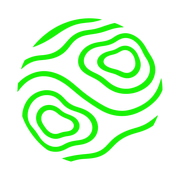
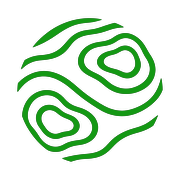
feat: novo logotipo em Barlow Condensed e verde da marca #14A514
- Logo.jsx: logotipo em texto (Barlow Condensed, caixa alta) com o X
  desenhado em SVG; substitui o PNG no cabecalho e no rodape
- token brand passa de #0CFC0D para #14A514, que da contraste tanto no
  branco (3,27:1) quanto no carbon (5,67:1)
- favicon, icon-512 e apple-touch-icon recoloridos para o novo verde
- brand-lab.html: pagina de estudo so para uso local, fora do build,
  comparando os verdes e as propostas de logotipo

Changed region(s): [[0.0833, 0.0833, 0.9167, 0.9167]]

diff --git a/brand-lab.html b/brand-lab.html
@@ -1,0 +1,285 @@
+<!doctype html>
+<html lang="pt-BR">
+<head>
+<meta charset="UTF-8" />
+<meta name="viewport" content="width=device-width, initial-scale=1.0" />
+<meta name="robots" content="noindex" />
+<title>Laboratório de marca — OffXpedition</title>
+<!--
+  Página de estudo, só para uso local (npm run dev / netlify dev).
+  Não é entrada do build do Vite, então não vai para o site publicado.
+-->
+<link rel="preconnect" href="https://fonts.googleapis.com" />
+<link rel="preconnect" href="https://fonts.gstatic.com" crossorigin />
+<link href="https://fonts.googleapis.com/css2?family=Barlow+Condensed:wght@500;600;700&family=JetBrains+Mono:wght@400;500&family=Manrope:wght@400;500;600;700&display=swap" rel="stylesheet" />
+<style>
+  :root {
+    --carbon: #111412; --charcoal: #202522; --ivory: #F3F1EA; --stone: #DADDD6; --muted: #818982;
+    --g: #14A514; --on-g: #111412;
+  }
+  * { box-sizing: border-box; }
+  body { margin: 0; background: #fff; color: var(--carbon); font-family: Manrope, system-ui, sans-serif; -webkit-font-smoothing: antialiased; }
+  .wrap { max-width: 1400px; margin: 0 auto; padding: 0 20px; }
+  @media (min-width: 900px) { .wrap { padding: 0 48px; } }
+  .mono { font-family: "JetBrains Mono", ui-monospace, monospace; font-size: 12px; text-transform: uppercase; letter-spacing: .14em; }
+  h1, h2 { font-family: "Barlow Condensed", sans-serif; text-transform: uppercase; font-weight: 700; line-height: .95; margin: 0; }
+  h1 { font-size: clamp(40px, 6vw, 72px); }
+  h2 { font-size: clamp(28px, 3.4vw, 44px); }
+  p { line-height: 1.6; max-width: 68ch; }
+  section { padding: 56px 0; border-top: 1px solid rgba(17,20,18,.1); }
+  .intro { padding: 56px 0 40px; }
+  .note { color: #5d655f; font-size: 15px; }
+
+  /* Barra fixa: escolhe o verde aplicado na página inteira */
+  .bar { position: sticky; top: 0; z-index: 5; background: #fff; border-bottom: 1px solid rgba(17,20,18,.1); }
+  .bar .wrap { display: flex; flex-wrap: wrap; align-items: center; gap: 10px 16px; padding-top: 12px; padding-bottom: 12px; }
+  .chips { display: flex; flex-wrap: wrap; gap: 8px; }
+  .chip { display: inline-flex; align-items: center; gap: 8px; min-height: 40px; padding: 0 12px; border: 1px solid rgba(17,20,18,.2); border-radius: 3px; background: #fff; color: var(--carbon); cursor: pointer; font: 500 12px "JetBrains Mono", monospace; letter-spacing: .06em; }
+  .chip i { width: 16px; height: 16px; border-radius: 50%; display: block; }
+  .chip[aria-pressed="true"] { background: var(--carbon); color: #fff; border-color: var(--carbon); }
+
+  /* ===== Logotipo proposto: texto vivo em Barlow Condensed + X desenhado ===== */
+  .wm { display: inline-flex; align-items: baseline; font-family: "Barlow Condensed", sans-serif; text-transform: uppercase; line-height: 1; white-space: nowrap; color: inherit; }
+  .wm svg { height: .7em; width: .6em; flex: none; margin: 0 .07em; fill: var(--g); }
+  .wm-a { font-weight: 700; letter-spacing: .035em; }
+  .wm-b { font-weight: 500; letter-spacing: .2em; }
+  .wm-b svg { width: .56em; margin: 0 .2em 0 .02em; }
+  .wm-c { font-weight: 600; letter-spacing: .08em; }
+  .wm-c svg { margin: 0 .1em 0 .03em; }
+
+  .stage { display: grid; gap: 16px; grid-template-columns: 1fr; margin-top: 28px; }
+  @media (min-width: 900px) { .stage { grid-template-columns: repeat(2, 1fr); } }
+  .card { border: 1px solid rgba(17,20,18,.12); border-radius: 4px; overflow: hidden; display: flex; flex-direction: column; }
+  .card .label { padding: 10px 14px; border-bottom: 1px solid rgba(17,20,18,.1); color: #5d655f; }
+  .plate { display: flex; align-items: center; justify-content: center; min-height: 190px; padding: 28px 20px; }
+  .on-white { background: #fff; color: var(--carbon); }
+  .on-ivory { background: var(--ivory); color: var(--carbon); }
+  .on-carbon { background: var(--carbon); color: #fff; }
+  .plate .wm { font-size: clamp(38px, 6.4vw, 78px); }
+  .plate canvas { width: min(100%, 440px); height: auto; }
+  .split { display: grid; grid-template-columns: 1fr 1fr; }
+  .split .plate { min-height: 150px; }
+  .split .plate { padding: 28px 12px; overflow: hidden; }
+  .split .plate .wm { font-size: clamp(22px, 3.1vw, 40px); }
+  .split .plate .wm-b { font-size: clamp(16px, 2.2vw, 29px); }
+
+  /* ===== Grade dos verdes ===== */
+  .scroll { overflow-x: auto; margin-top: 28px; }
+  .grid { display: grid; grid-template-columns: repeat(4, minmax(250px, 1fr)); gap: 16px; min-width: 1060px; }
+  .col { border: 1px solid rgba(17,20,18,.12); border-radius: 4px; overflow: hidden; }
+  .sw { height: 96px; background: var(--g); }
+  .meta { padding: 14px; border-bottom: 1px solid rgba(17,20,18,.1); }
+  .meta b { font: 600 22px "Barlow Condensed", sans-serif; text-transform: uppercase; letter-spacing: .04em; display: block; }
+  .meta .mono { color: #5d655f; display: block; margin-top: 6px; letter-spacing: .08em; }
+  .cell { display: flex; align-items: center; justify-content: center; min-height: 112px; padding: 18px 14px; border-bottom: 1px solid rgba(17,20,18,.08); }
+  .col .cell:last-child { border-bottom: 0; }
+  .cell .wm { font-size: 34px; }
+  .btn { display: inline-flex; align-items: center; gap: 12px; min-height: 48px; padding: 0 24px; border-radius: 3px; background: var(--g); color: var(--on-g); font: 600 17px "Barlow Condensed", sans-serif; text-transform: uppercase; letter-spacing: .08em; }
+  .eyebrow { display: flex; align-items: center; gap: 12px; color: var(--g); }
+  .eyebrow::before { content: ""; width: 34px; height: 2px; background: var(--g); }
+  .link { color: var(--g); font-weight: 600; text-decoration: underline; text-underline-offset: 4px; }
+  .cell canvas { width: 76px; height: 76px; }
+  .stack { flex-direction: column; gap: 12px; text-align: center; }
+
+  /* ===== Aplicações ===== */
+  .apps { display: grid; gap: 16px; margin-top: 28px; }
+  .hdr { display: flex; align-items: center; justify-content: space-between; gap: 20px; height: 76px; padding: 0 28px; background: #fff; }
+  .hdr .wm { font-size: 30px; }
+  .hdr nav { display: none; gap: 26px; font: 600 16px "Barlow Condensed", sans-serif; text-transform: uppercase; letter-spacing: .08em; }
+  @media (min-width: 900px) { .hdr nav { display: flex; } }
+  .hero { background: linear-gradient(120deg, #111412 0%, #2a322c 60%, #46503f 100%); color: #fff; padding: 56px 28px; }
+  .hero .t { font: 700 clamp(40px, 6vw, 84px)/.92 "Barlow Condensed", sans-serif; text-transform: uppercase; margin: 18px 0 26px; max-width: 12ch; }
+  .small-row { display: flex; flex-wrap: wrap; align-items: center; gap: 28px 44px; padding: 28px; }
+  .avatar { width: 96px; height: 96px; border-radius: 50%; background: var(--carbon); display: grid; place-items: center; }
+  .avatar svg { width: 40px; height: 46px; fill: var(--g); }
+  .avatar.light { background: var(--ivory); }
+  .fav { width: 32px; height: 32px; border-radius: 6px; }
+  .fav svg { width: 14px; height: 16px; }
+</style>
+</head>
+<body>
+
+<div class="bar">
+  <div class="wrap">
+    <span class="mono">Verde aplicado</span>
+    <div class="chips" id="chips"></div>
+  </div>
+</div>
+
+<div class="wrap">
+  <div class="intro">
+    <span class="mono" style="color:#5d655f">Estudo de marca · uso interno</span>
+    <h1 style="margin-top:14px">Laboratório de marca</h1>
+    <p>Compare o verde atual com três opções mais profundas e veja uma proposta de logotipo desenhada na mesma tipografia dos títulos do site. Troque o verde na barra acima: a página inteira acompanha.</p>
+  </div>
+
+  <section>
+    <h2>Logotipo: atual e proposta</h2>
+    <p class="note">A proposta troca a fonte redonda por Barlow Condensed em caixa alta, a mesma dos títulos do site, e dá ao X um desenho próprio: duas trilhas que se cruzam, uma passando sobre a outra.</p>
+    <div class="stage">
+      <div class="card">
+        <div class="label mono">Atual · arquivo PNG do site</div>
+        <div class="plate on-white"><canvas data-logo></canvas></div>
+      </div>
+      <div class="card">
+        <div class="label mono">Proposta A · assinatura principal</div>
+        <div class="split">
+          <div class="plate on-white"><span class="wm wm-a" data-wm></span></div>
+          <div class="plate on-carbon"><span class="wm wm-a" data-wm></span></div>
+        </div>
+      </div>
+      <div class="card">
+        <div class="label mono">Proposta B · leve e espaçada</div>
+        <div class="split">
+          <div class="plate on-white"><span class="wm wm-b" data-wm></span></div>
+          <div class="plate on-carbon"><span class="wm wm-b" data-wm></span></div>
+        </div>
+      </div>
+      <div class="card">
+        <div class="label mono">Proposta C · meio-termo</div>
+        <div class="split">
+          <div class="plate on-ivory"><span class="wm wm-c" data-wm></span></div>
+          <div class="plate on-carbon"><span class="wm wm-c" data-wm></span></div>
+        </div>
+      </div>
+    </div>
+  </section>
+
+  <section>
+    <h2>Os verdes lado a lado</h2>
+    <p class="note">Cada coluna usa um verde fixo, independente da barra. O contraste mínimo recomendado é 3:1 para elementos gráficos e títulos grandes, e 4,5:1 para texto corrido.</p>
+    <div class="scroll"><div class="grid" id="grid"></div></div>
+  </section>
+
+  <section>
+    <h2>Aplicações</h2>
+    <p class="note">Como o verde escolhido na barra se comporta nas situações reais do site, usando a proposta A.</p>
+    <div class="apps">
+      <div class="card">
+        <div class="label mono">Cabeçalho do site</div>
+        <div class="hdr">
+          <span class="wm wm-a" data-wm></span>
+          <nav><span>Expedições</span><span>Passeios</span><span>Films</span><span>Para marcas</span><span>Clube</span></nav>
+          <span class="btn" style="min-height:40px;font-size:15px;padding:0 18px">Explorar expedições</span>
+        </div>
+      </div>
+      <div class="card">
+        <div class="label mono">Hero sobre fundo escuro</div>
+        <div class="hero">
+          <span class="eyebrow mono">OffXpedition / Premium 4x4 experiences</span>
+          <div class="t">A estrada termina. A experiência começa.</div>
+          <span class="btn">Explorar expedições →</span>
+        </div>
+      </div>
+      <div class="card">
+        <div class="label mono">Tamanhos pequenos e avatar</div>
+        <div class="small-row">
+          <span class="wm wm-a" data-wm style="font-size:22px"></span>
+          <span class="wm wm-a" data-wm style="font-size:15px"></span>
+          <span class="avatar" data-x></span>
+          <span class="avatar light" data-x></span>
+          <span class="avatar fav" data-x></span>
+          <canvas data-symbol style="width:96px;height:96px"></canvas>
+        </div>
+      </div>
+    </div>
+  </section>
+</div>
+
+<script>
+const GREENS = [
+  { hex: "#0CFC0D", name: "Atual", note: "neon do logotipo" },
+  { hex: "#14A514", name: "Vivo", note: "funciona em claro e escuro" },
+  { hex: "#18990D", name: "Intermediário", note: "um passo mais sóbrio" },
+  { hex: "#1D8F06", name: "Profundo", note: "já existe como brand-deep" },
+];
+const CARBON = "#111412";
+
+// X desenhado: a barra "\" é interrompida onde a barra "/" passa por cima.
+const X = '<svg viewBox="0 0 100 100" preserveAspectRatio="none" aria-hidden="true">' +
+  '<polygon points="0,0 24,0 45,27.6 33,43.4"/>' +
+  '<polygon points="55,72.4 67,56.6 100,100 76,100"/>' +
+  '<polygon points="76,0 100,0 24,100 0,100"/></svg>';
+const WM = "<span>Off</span>" + X + "<span>pedition</span>";
+
+const rgb = (h) => [1, 3, 5].map((i) => parseInt(h.substr(i, 2), 16));
+const lum = (h) => {
+  const c = rgb(h).map((v) => v / 255).map((v) => (v <= 0.03928 ? v / 12.92 : ((v + 0.055) / 1.055) ** 2.4));
+  return 0.2126 * c[0] + 0.7152 * c[1] + 0.0722 * c[2];
+};
+const ratio = (a, b) => { const x = lum(a), y = lum(b); return (Math.max(x, y) + 0.05) / (Math.min(x, y) + 0.05); };
+const fmt = (n) => n.toFixed(2).replace(".", ",") + ":1";
+const onColor = (g) => (ratio(g, CARBON) >= ratio(g, "#FFFFFF") ? CARBON : "#FFFFFF");
+
+document.querySelectorAll("[data-wm]").forEach((el) => { el.innerHTML = WM; el.setAttribute("aria-label", "OffXpedition"); });
+document.querySelectorAll("[data-x]").forEach((el) => { el.innerHTML = X; });
+
+// Arquivos atuais da marca, com o verde trocado pixel a pixel.
+const load = (src) => new Promise((ok) => { const i = new Image(); i.onload = () => ok(i); i.src = src; });
+const images = Promise.all([
+  load("/src/assets/brand/logo-offxpedition.png"),
+  load("/src/assets/brand/symbol-topo.webp"),
+]);
+function paint(canvas, img, hex, symbol) {
+  const [tr, tg, tb] = rgb(hex);
+  canvas.width = img.naturalWidth; canvas.height = img.naturalHeight;
+  const ctx = canvas.getContext("2d");
+  ctx.drawImage(img, 0, 0);
+  const d = ctx.getImageData(0, 0, canvas.width, canvas.height), p = d.data;
+  for (let i = 0; i < p.length; i += 4) {
+    const k = Math.max(0, Math.min(1, (p[i + 1] - p[i]) / 240)); // quanto do pixel é verde
+    if (symbol) { p[i] = tr; p[i + 1] = tg; p[i + 2] = tb; p[i + 3] = p[i + 3] * k; }
+    else if (k > 0) { const base = p[i]; p[i] = k * tr + (1 - k) * base; p[i + 1] = k * tg + (1 - k) * base; p[i + 2] = k * tb + (1 - k) * base; }
+  }
+  ctx.putImageData(d, 0, 0);
+}
+
+// Grade fixa: uma coluna por verde.
+const grid = document.getElementById("grid");
+GREENS.forEach((g) => {
+  const col = document.createElement("div");
+  col.className = "col";
+  col.style.setProperty("--g", g.hex);
+  col.style.setProperty("--on-g", onColor(g.hex));
+  col.innerHTML =
+    '<div class="sw"></div>' +
+    '<div class="meta"><b>' + g.name + " · " + g.hex + "</b>" +
+      '<span class="mono">' + g.note + "</span>" +
+      '<span class="mono">no branco ' + fmt(ratio(g.hex, "#FFFFFF")) + "</span>" +
+      '<span class="mono">no carbon ' + fmt(ratio(g.hex, CARBON)) + "</span></div>" +
+    '<div class="cell on-white"><span class="wm wm-a">' + WM + "</span></div>" +
+    '<div class="cell on-carbon"><span class="wm wm-a">' + WM + "</span></div>" +
+    '<div class="cell on-white"><canvas data-col-logo style="width:210px;height:auto"></canvas></div>' +
+    '<div class="cell on-carbon"><span class="btn">Explorar expedições →</span></div>' +
+    '<div class="cell on-white stack"><span class="btn">Garantir vaga</span><span class="link">Ver roteiro completo</span></div>' +
+    '<div class="cell on-ivory"><span class="eyebrow mono">Próximas saídas</span></div>' +
+    '<div class="cell on-carbon"><canvas data-col-symbol></canvas></div>';
+  grid.appendChild(col);
+  images.then(([logo, topo]) => {
+    paint(col.querySelector("[data-col-logo]"), logo, g.hex, false);
+    paint(col.querySelector("[data-col-symbol]"), topo, g.hex, true);
+  });
+});
+
+// Barra: aplica o verde escolhido na página inteira.
+const chips = document.getElementById("chips");
+function apply(hex) {
+  document.documentElement.style.setProperty("--g", hex);
+  document.documentElement.style.setProperty("--on-g", onColor(hex));
+  chips.querySelectorAll("button").forEach((b) => b.setAttribute("aria-pressed", String(b.dataset.hex === hex)));
+  images.then(([logo, topo]) => {
+    document.querySelectorAll("canvas[data-logo]").forEach((c) => paint(c, logo, hex, false));
+    document.querySelectorAll("canvas[data-symbol]").forEach((c) => paint(c, topo, hex, true));
+  });
+}
+GREENS.forEach((g) => {
+  const b = document.createElement("button");
+  b.type = "button"; b.className = "chip"; b.dataset.hex = g.hex;
+  b.innerHTML = '<i style="background:' + g.hex + '"></i>' + g.name + " " + g.hex;
+  b.addEventListener("click", () => apply(g.hex));
+  chips.appendChild(b);
+});
+apply("#14A514");
+</script>
+</body>
+</html>

diff --git a/src/components/site/Footer.jsx b/src/components/site/Footer.jsx
@@ -1,11 +1,10 @@
 import React from "react";
 import { Link } from "react-router-dom";
-import logo from "../../assets/brand/logo-offxpedition.png";
+import Logo from "./Logo.jsx";
 import { NAV } from "./Header.jsx";
 import { Topo } from "./ui.jsx";
 
-// Rodapé claro: o logotipo original é preto, então fica sobre marfim em vez de
-// ser invertido para caber num rodapé escuro.
+// Rodapé claro, sobre marfim: o logotipo usa as letras em carbon.
 export default function Footer() {
   return (
     <footer className="relative overflow-hidden border-t border-carbon/10 bg-ivory">
@@ -13,7 +12,7 @@ export default function Footer() {
       <div className="site-container relative py-16 lg:py-24">
         <div className="grid gap-12 lg:grid-cols-12">
           <div className="lg:col-span-5">
-            <img src={logo} alt="OffXpedition" width="841" height="156" className="h-8 w-auto lg:h-10" />
+            <Logo className="text-[40px] text-carbon lg:text-[48px]" />
             <p className="mt-6 max-w-sm text-[15px] leading-relaxed text-carbon/70">
               Expedições 4x4 cuidadosamente planejadas para quem acredita que a verdadeira viagem vai muito além do destino.
             </p>

diff --git a/src/components/site/Logo.jsx b/src/components/site/Logo.jsx
@@ -1,0 +1,35 @@
+import React from "react";
+import { cn } from "./ui.jsx";
+
+/**
+ * Logotipo OffXpedition: Barlow Condensed em caixa alta, a mesma dos títulos,
+ * com o X desenhado — duas trilhas que se cruzam, uma passando sobre a outra.
+ * O tamanho vem de `text-*` e a cor das letras de `text-*` do contexto; o X é
+ * sempre o verde da marca.
+ */
+export function LogoX({ className = "" }) {
+  return (
+    <svg viewBox="0 0 100 100" preserveAspectRatio="none" aria-hidden="true" className={cn("fill-brand", className)}>
+      <polygon points="0,0 24,0 45,27.6 33,43.4" />
+      <polygon points="55,72.4 67,56.6 100,100 76,100" />
+      <polygon points="76,0 100,0 24,100 0,100" />
+    </svg>
+  );
+}
+
+export default function Logo({ className = "" }) {
+  return (
+    <span
+      role="img"
+      aria-label="OffXpedition"
+      className={cn(
+        "inline-flex items-baseline whitespace-nowrap font-display font-bold uppercase leading-none tracking-[0.035em]",
+        className
+      )}
+    >
+      <span aria-hidden="true">Off</span>
+      <LogoX className="mx-[0.07em] h-[0.7em] w-[0.6em] flex-none" />
+      <span aria-hidden="true">pedition</span>
+    </span>
+  );
+}

diff --git a/tailwind.config.js b/tailwind.config.js
@@ -3,16 +3,17 @@ export default {
   content: ["./index.html", "./src/**/*.{js,ts,jsx,tsx}"],
   theme: {
     extend: {
-      // Tokens do design system OffXpedition. Os verdes foram medidos nos
-      // arquivos da marca: `brand` é o X do logotipo, `brand-deep` é o traço
-      // do símbolo topográfico (usado onde o verde vivo não dá contraste).
+      // Tokens do design system OffXpedition. `brand` é o verde do X do
+      // logotipo: 3,27:1 no branco e 5,67:1 no carbon, então serve para
+      // grafismos e botões nos dois fundos. `brand-deep` e `brand-ink` ficam
+      // para texto pequeno sobre fundo claro, onde `brand` não dá contraste.
       colors: {
         carbon: "#111412",
         charcoal: "#202522",
         ivory: "#F3F1EA",
         stone: "#DADDD6",
         muted: "#818982",
-        brand: { DEFAULT: "#0CFC0D", deep: "#1D8F06", ink: "#156B05" },
+        brand: { DEFAULT: "#14A514", deep: "#1D8F06", ink: "#156B05" },
       },
       fontFamily: {
         display: ['"Barlow Condensed"', "Arial Narrow", "sans-serif"],

diff --git a/src/components/site/Header.jsx b/src/components/site/Header.jsx
@@ -1,6 +1,6 @@
 import React, { useEffect, useState } from "react";
 import { Link, useLocation } from "react-router-dom";
-import logo from "../../assets/brand/logo-offxpedition.png";
+import Logo from "./Logo.jsx";
 import { Arrow, cn } from "./ui.jsx";
 
 /**
@@ -75,7 +75,7 @@ export default function Header() {
     <header className="sticky top-0 z-40 border-b border-carbon/10 bg-white">
       <div className="site-container flex h-16 items-center justify-between gap-6 lg:h-[76px]">
         <Link to="/" aria-label="OffXpedition — página inicial" className="flex-none">
-          <img src={logo} alt="OffXpedition" width="841" height="156" className="h-[22px] w-auto sm:h-[26px]" />
+          <Logo className="text-[28px] text-carbon sm:text-[32px]" />
         </Link>
 
         <nav aria-label="Principal" className="hidden h-full items-stretch xl:flex">

diff --git a/src/index.css b/src/index.css
@@ -22,7 +22,7 @@
     @apply bg-white font-sans text-carbon antialiased;
   }
   ::selection {
-    background: #0cfc0d;
+    background: #14a514;
     color: #111412;
   }
   :focus-visible {
